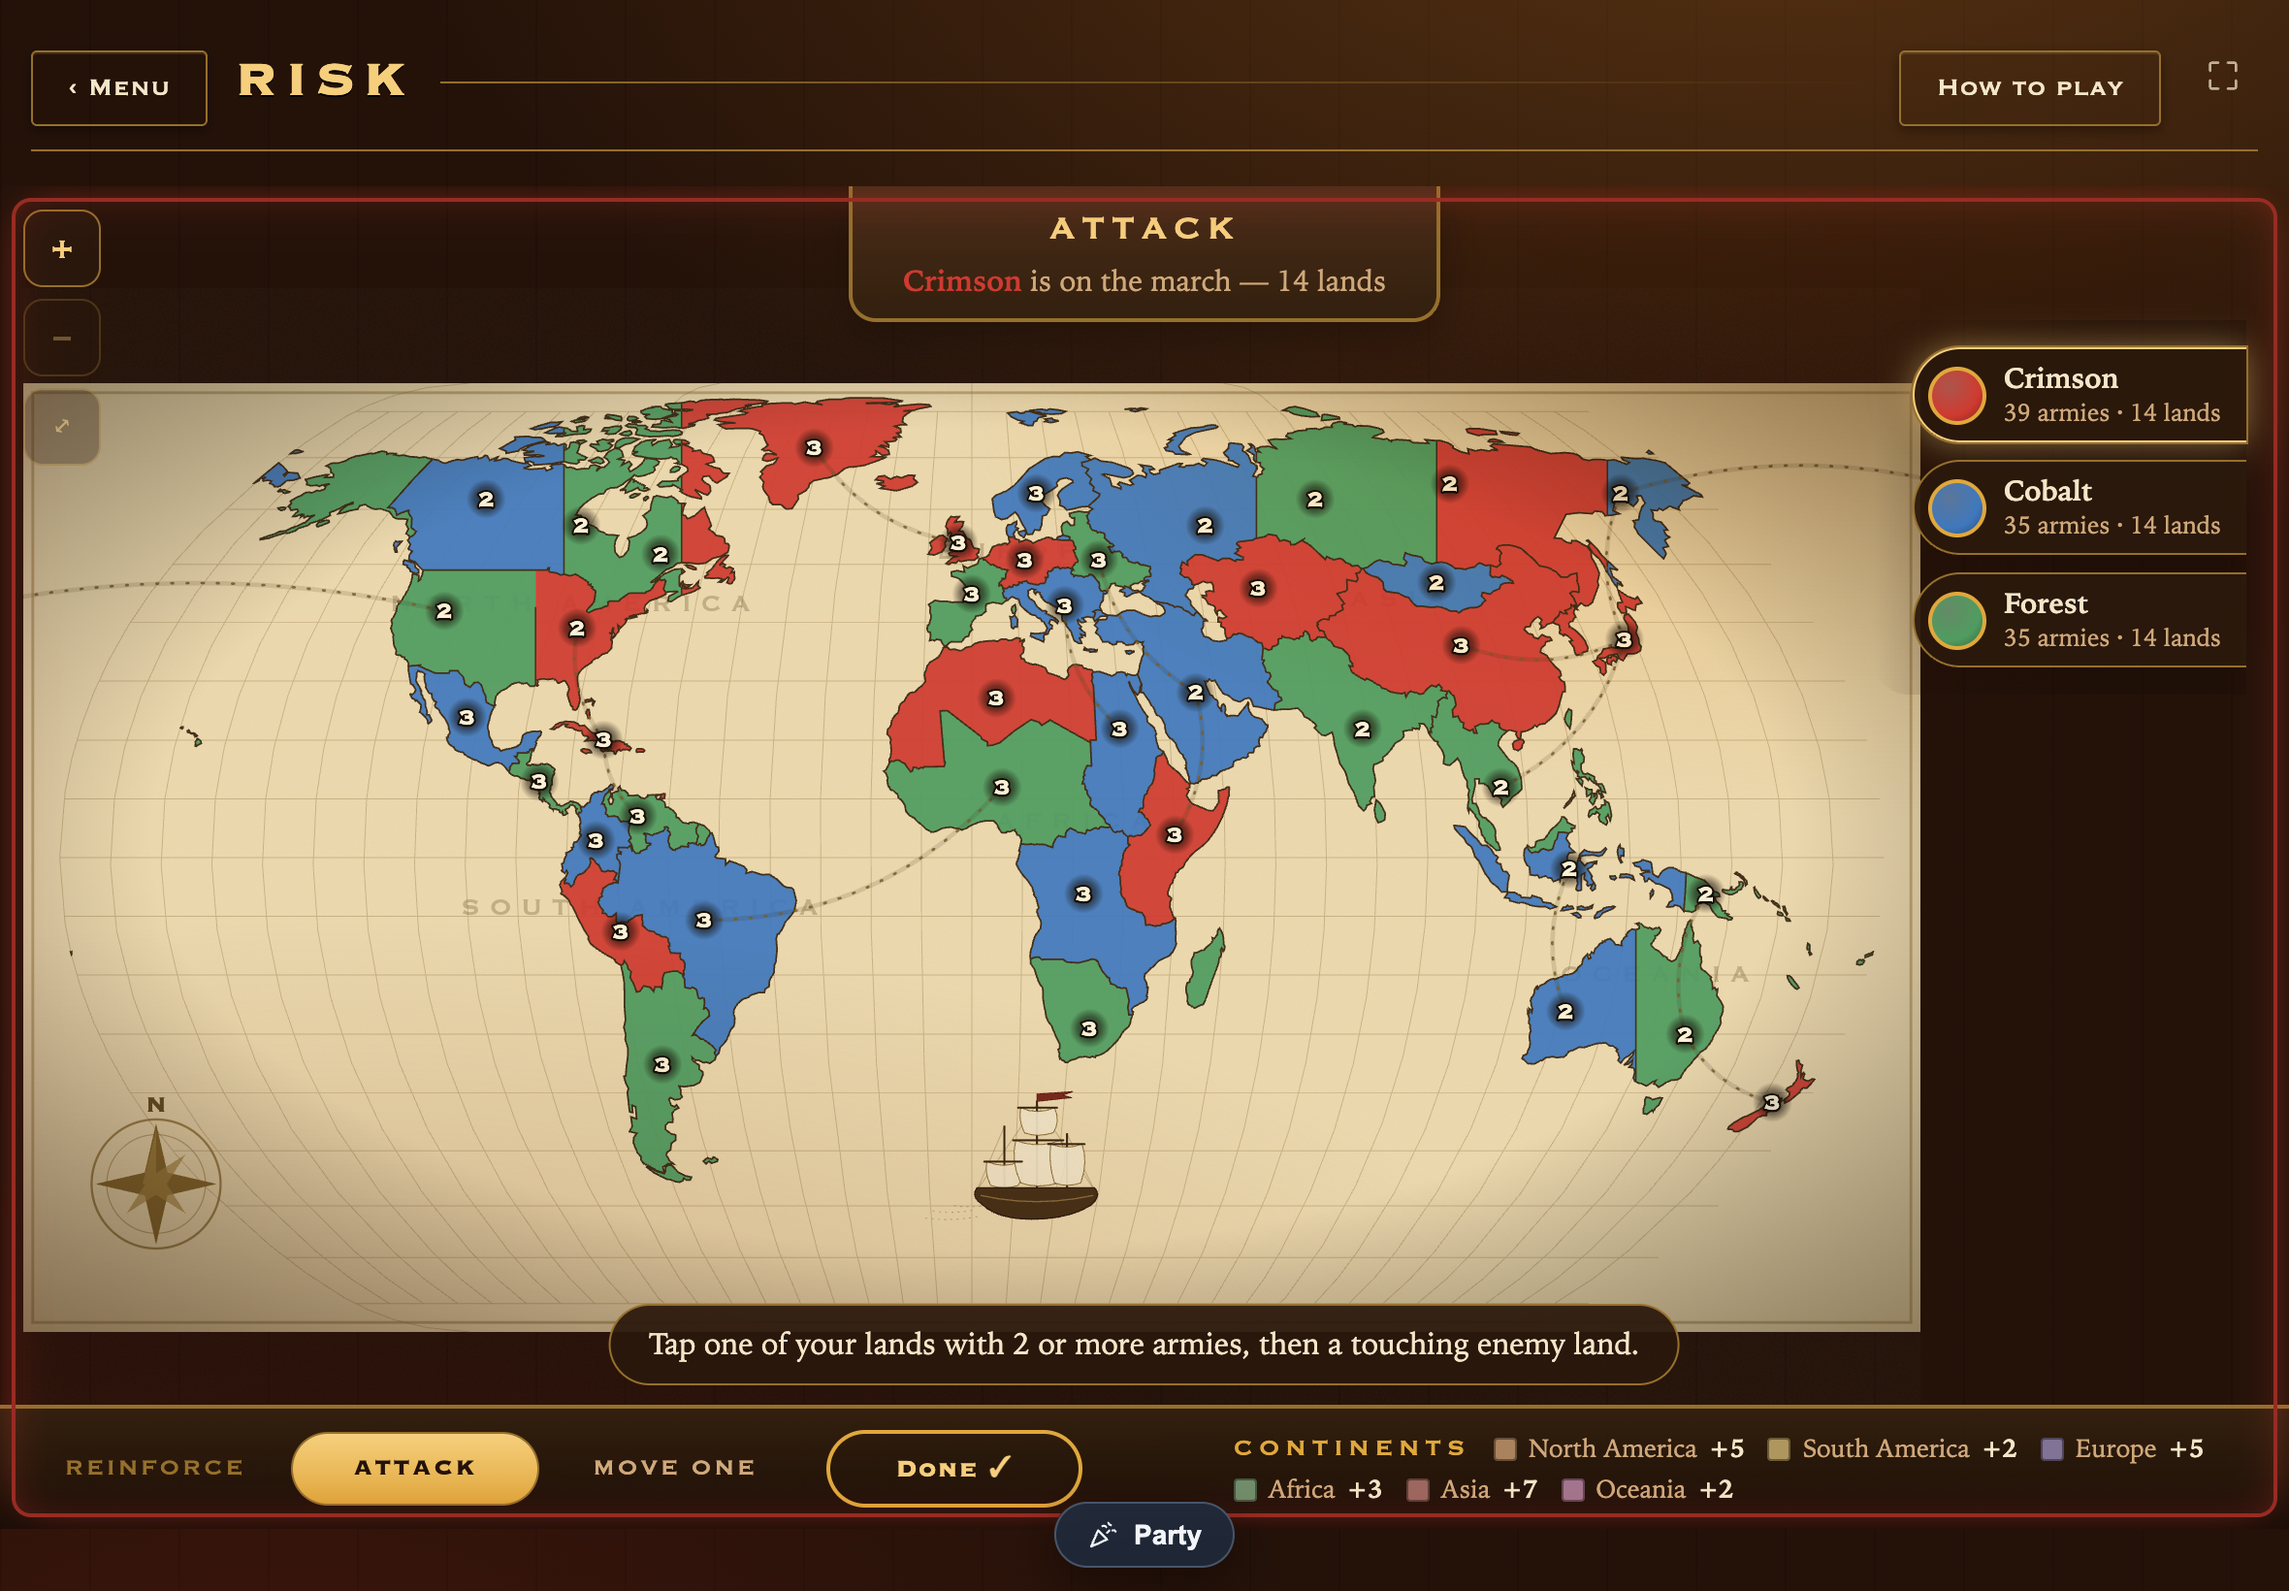
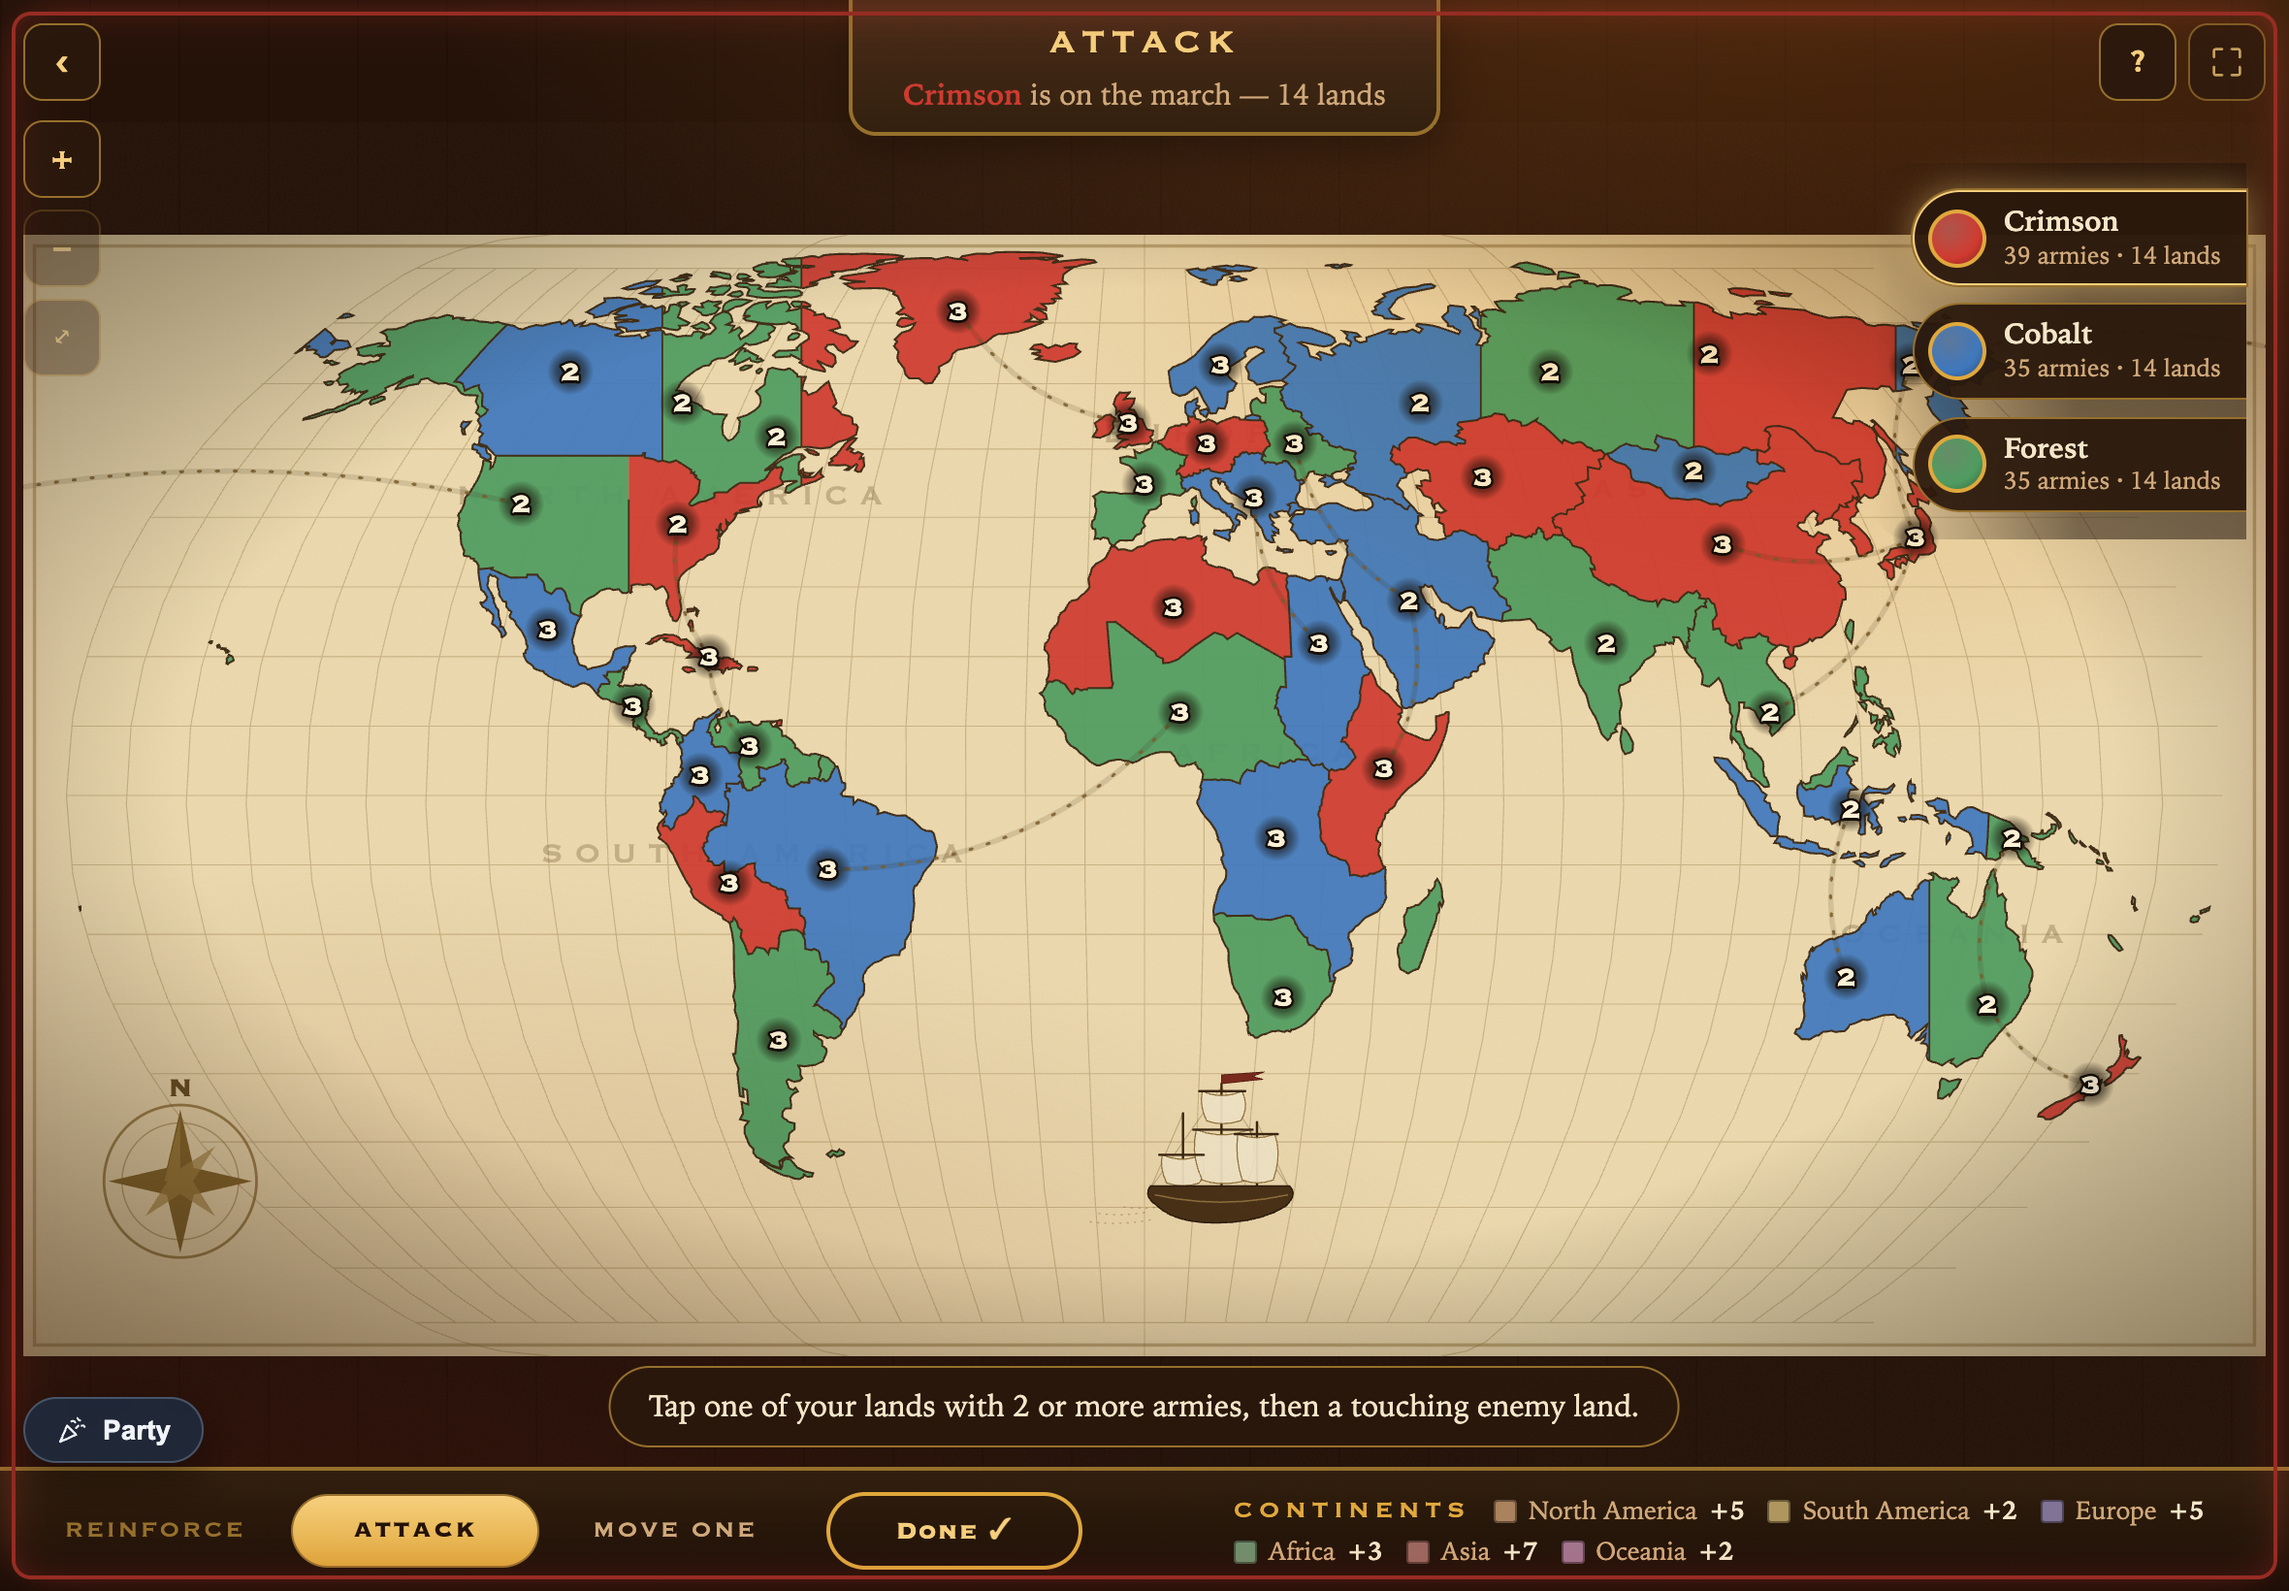
design(risk): give the map the whole window
Three things were taking space from the board.

The title row cost a whole band to tell you which game you're already
playing. Mid-campaign it's gone; the three things it carried — exit,
how to play, fullscreen — are icons floating over the map, and the page
gutters and footer go with it. The setup and victory screens keep the
title row, since those are ordinary pages.

The command rail had its own 190px column, which I'd added so the cards
couldn't cover Japan and Kamchatka. That column read as dead space
beside the map, which is exactly what it was. The rail goes back over
the board, as the mockup had it; the two army counts it can overlap are
reachable by panning.

Between them the map is now about half again as large.

The Party pill is fixed bottom-centre app-wide, which lands it on Done ✓
once the war bar owns the bottom edge. It renders outside .app, so
:has() is the only way to reach it — and where :has() is missing the
pill just stays put, untidy rather than broken.

What has NOT changed is the letterbox above and below the map, and it
can't: the world is 2:1 and a window isn't. Filling it would mean
cropping, and a cropped world map is one with territories you cannot
tap — the pan clamps at the map's edge, so those lands would be
unreachable rather than merely off-screen. The bands are where the
plaque, the generals and the hint line live instead. On a portrait phone
the mismatch is severe enough that the board is centred at the height it
[…]

diff --git a/src/games/risk/styles/risk.css b/src/games/risk/styles/risk.css
@@ -190,6 +190,56 @@
   margin: 0 -16px;
   overflow: hidden;
 }
+
+/* Campaign mode: the window IS the board. The shared .app gutters and the
+   title row both go, so the map gets every pixel and the controls float on
+   top of it rather than beside it. */
+/* position: relative so the floating icons — which Shell renders alongside the
+   stage, not inside it — anchor to the window rather than to whatever ancestor
+   happens to be positioned. */
+.risk-theme.risk-bare { max-width: none; padding: 0; position: relative; }
+.risk-bare .risk-stage { height: 100dvh; margin: 0; }
+/* Clear of the exit button, which now owns the top-left corner. */
+.risk-bare .risk-zoomctl { top: 62px; }
+
+/* The Party pill is fixed bottom-centre app-wide, which puts it straight on top
+   of Done ✓ once the war bar owns the bottom edge. It renders outside .app, so
+   :has() is the only way to reach it from here — and if a browser lacks :has()
+   the pill simply stays where it was, which is untidy rather than broken. */
+body:has(.risk-bare) .party-root {
+  left: calc(12px + env(safe-area-inset-left));
+  bottom: calc(66px + env(safe-area-inset-bottom));
+  transform: none;
+}
+
+/* The three controls the title row used to carry, as icons over the map. */
+.risk-icon {
+  position: absolute; z-index: 5;
+  width: 40px; height: 40px; border-radius: 10px; cursor: pointer;
+  display: grid; place-items: center;
+  background: rgba(42, 24, 12, 0.93); color: var(--brass-hi);
+  border: 1.5px solid var(--brass-dim);
+  font-family: var(--font-display); font-size: 20px; line-height: 1;
+}
+.risk-icon:hover { border-color: var(--brass); }
+.risk-exit {
+  top: calc(12px + env(safe-area-inset-top));
+  left: calc(12px + env(safe-area-inset-left));
+  font-size: 26px;
+}
+.risk-quickbar {
+  position: absolute; z-index: 5; display: flex; gap: 6px;
+  top: calc(12px + env(safe-area-inset-top));
+  right: calc(12px + env(safe-area-inset-right));
+}
+.risk-quickbar .risk-icon { position: static; }
+/* FullscreenButton brings its own shared styling; match it to the icons. */
+.risk-quickbar > button:not(.risk-icon) {
+  width: 40px; height: 40px; padding: 0; border-radius: 10px;
+  display: grid; place-items: center;
+  background: rgba(42, 24, 12, 0.93); color: var(--brass-hi);
+  border: 1.5px solid var(--brass-dim);
+}
 /* The active general's colour rings the whole theatre. */
 /* A tinted edge, not a stripe: the plaque and the lit rail card already say
    whose turn it is, so at full saturation this read as an error state. */
@@ -207,14 +257,6 @@
   background: none; border: none; box-shadow: none; border-radius: 0;
   display: flex; align-items: center; justify-content: center;
 }
-/* Keep the world clear of the command rail. A hidden army count is a real
-   disadvantage in Risk, and the rail was sitting on Japan and Kamchatka; the
-   map gives up a little width rather than covering them. On a wide screen the
-   map is height-constrained anyway, so this costs nothing but a nudge left. */
-@media (min-width: 561px) {
-  .risk-stage .risk-board { padding-right: 190px; }
-}
-
 /* touch-action: none so a two-finger pinch zooms the map instead of the page —
    without it the browser claims the gesture before React ever sees it. */
 .risk-stage .risk-svg { width: 100%; height: 100%; touch-action: none; cursor: grab; }
@@ -443,14 +485,20 @@
   .risk-done { width: 104px; font-size: 13.5px; }
 }
 @media (max-width: 560px) {
-  /* Two things at once. The top bar wraps to two rows at this width, so the
-     stage has to give back more than the 128px a single row costs, or the war
-     bar sits below the fold. And the world map is 2:1 — in a portrait stage it
-     letterboxes to a third of the height, leaving a large empty frame. So the
-     stage is capped to roughly what the map plus its chrome actually needs, and
-     the frame hugs the board instead of enclosing a void. Detail comes from
-     the zoom controls, not from stretching a wide map down a tall screen. */
-  .risk-stage { height: clamp(380px, calc(100dvh - 186px), 480px); }
+  /* A 2:1 world map in a portrait phone letterboxes to a fifth of the height
+     however the stage is sized, and cropping to fill would mean territories
+     you cannot tap. So rather than stretch the stage over dead space, the
+     board keeps the height it needs and the whole cluster is centred in the
+     window — the exit and help icons stay pinned to the screen's own corners.
+     Turning the phone sideways fits the map almost exactly. */
+  .risk-theme.risk-bare {
+    min-height: 100dvh;
+    display: flex; flex-direction: column; justify-content: center;
+  }
+  .risk-bare .risk-stage { height: clamp(380px, 100dvh, 470px); }
+  /* The exit button is on the window corner now, not the stage's, so the zoom
+     stack has its own top edge back. */
+  .risk-bare .risk-zoomctl { top: 12px; }
   .risk-zoomctl { left: 8px; top: 8px; }
   .risk-zoomctl button { width: 34px; height: 34px; font-size: 17px; }
   .risk-plaque { padding: 5px 12px 6px; }

diff --git a/src/games/risk/components/RiskPage.tsx b/src/games/risk/components/RiskPage.tsx
@@ -334,7 +334,7 @@ export function RiskPage() {
         : 'Optional: tap a land, then a connected land of yours to move armies — or press Done.');
 
   return (
-    <Shell onMenu={goMenu}>
+    <Shell onMenu={goMenu} bare>
       {/* The map IS the screen: it fills the stage and every control floats over
           it, at a fixed size and place. The stage wears the active general's
           colour, and the plaque re-pops on every hand-off so whose turn it is
@@ -511,7 +511,16 @@ function CommandRail({ state }: { state: GameState }) {
 
 const HELP_SEEN_KEY = 'risk-help-seen-v1';
 
-function Shell({ children, onMenu }: { children: React.ReactNode; onMenu: () => void }) {
+function Shell({
+  children,
+  onMenu,
+  bare = false,
+}: {
+  children: React.ReactNode;
+  onMenu: () => void;
+  /** Campaign mode: no title row, no footer — the map gets the whole window. */
+  bare?: boolean;
+}) {
   const [showHelp, setShowHelp] = useState(false);
 
   // Pop the rules open the very first time someone opens Risk, so a new player
@@ -533,18 +542,40 @@ function Shell({ children, onMenu }: { children: React.ReactNode; onMenu: () => 
   }, []);
 
   return (
-    <div className="app risk-theme">
-      <div className="topbar risk-topbar">
-        <button className="risk-btn ghost" onClick={onMenu} data-testid="risk-back">‹ Menu</button>
-        <h1>Risk</h1>
-        <span className="risk-topbar-rule" aria-hidden="true" />
-        <button className="risk-btn ghost" onClick={() => setShowHelp(true)} data-testid="risk-help-open">
-          How to play
-        </button>
-        <FullscreenButton />
-      </div>
+    <div className={`app risk-theme ${bare ? 'risk-bare' : ''}`}>
+      {bare ? (
+        // Mid-campaign the title row is pure overhead — it costs a whole band
+        // of screen to tell you which game you already know you're playing. The
+        // three things it carried become icons floating over the map instead.
+        <>
+          <button className="risk-icon risk-exit" onClick={onMenu} aria-label="Back to the menu" data-testid="risk-back">
+            ‹
+          </button>
+          <div className="risk-quickbar">
+            <button
+              className="risk-icon"
+              onClick={() => setShowHelp(true)}
+              aria-label="How to play"
+              data-testid="risk-help-open"
+            >
+              ?
+            </button>
+            <FullscreenButton />
+          </div>
+        </>
+      ) : (
+        <div className="topbar risk-topbar">
+          <button className="risk-btn ghost" onClick={onMenu} data-testid="risk-back">‹ Menu</button>
+          <h1>Risk</h1>
+          <span className="risk-topbar-rule" aria-hidden="true" />
+          <button className="risk-btn ghost" onClick={() => setShowHelp(true)} data-testid="risk-help-open">
+            How to play
+          </button>
+          <FullscreenButton />
+        </div>
+      )}
       {children}
-      <div className="footer"><Link to="/">Family game console</Link></div>
+      {!bare && <div className="footer"><Link to="/">Family game console</Link></div>}
       {showHelp && <RiskHelp onClose={() => setShowHelp(false)} />}
     </div>
   );
